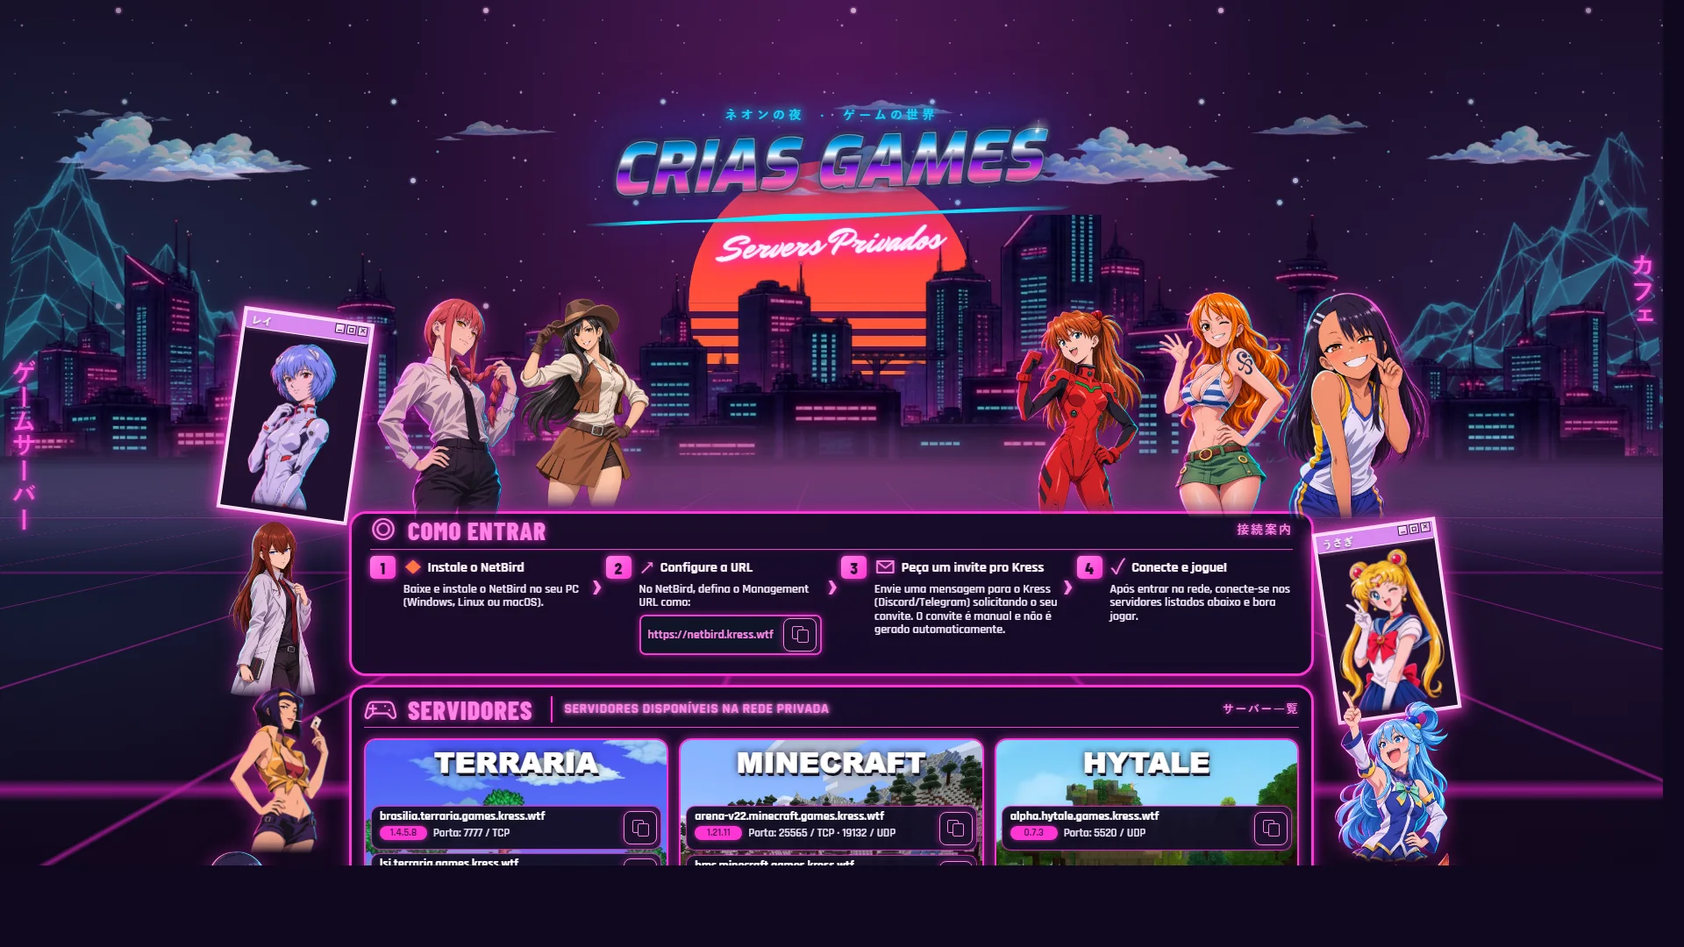
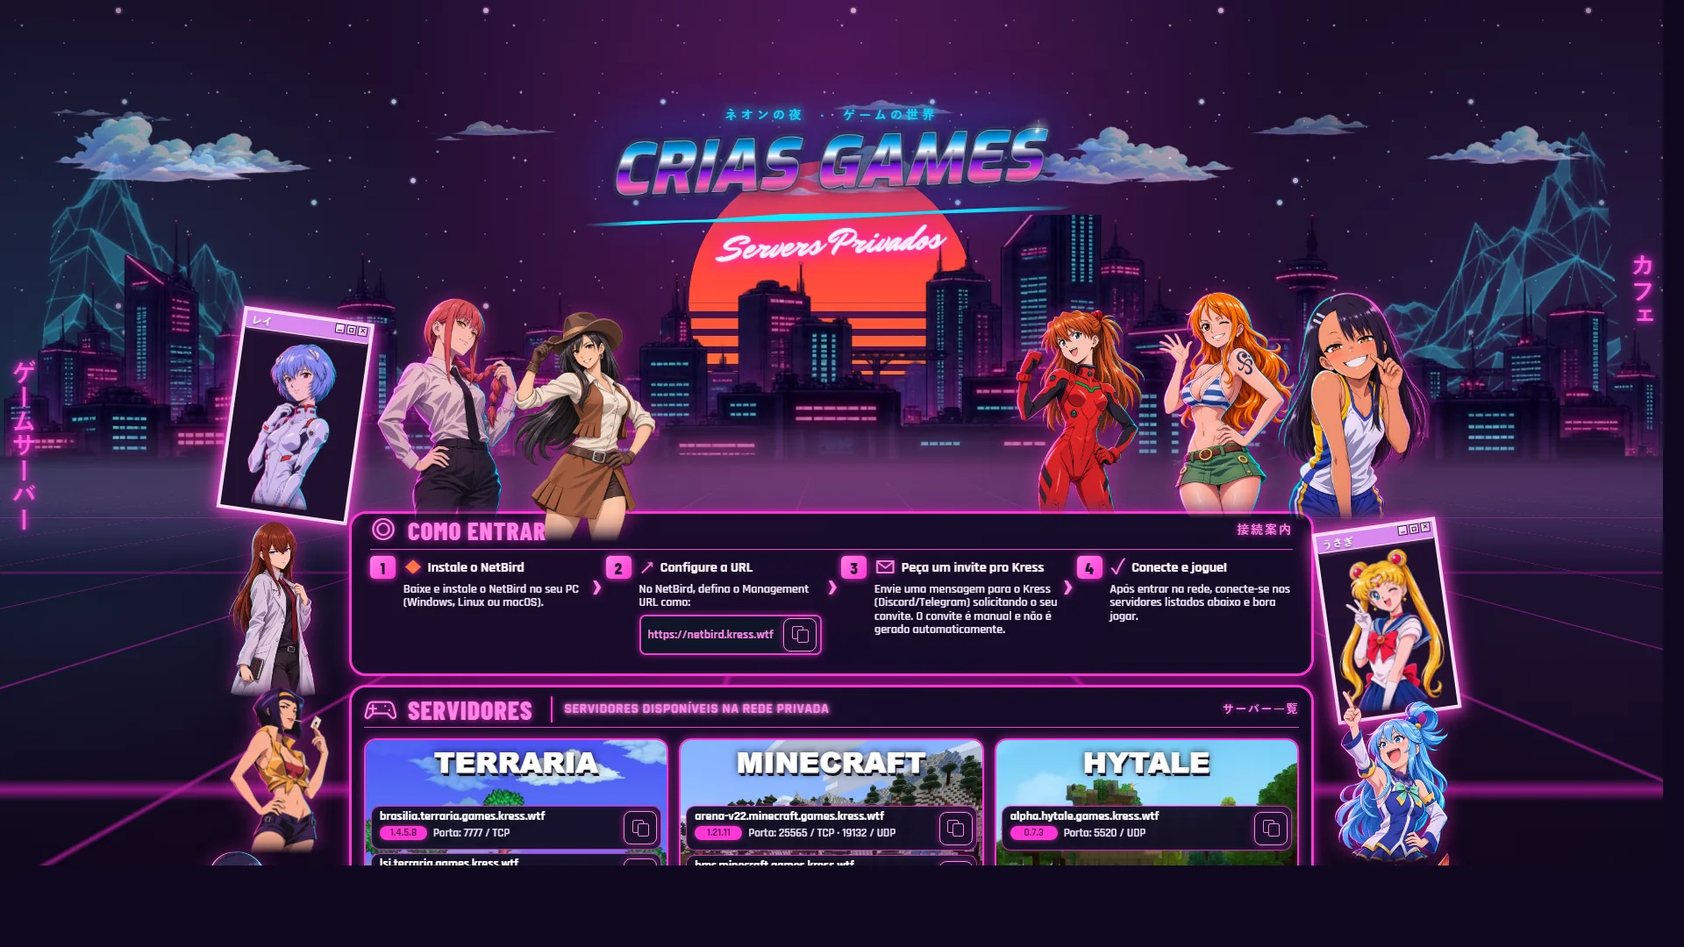
Scale Tifa and keep mountains in frame

diff --git a/src/assets/site.css b/src/assets/site.css
@@ -95,8 +95,8 @@ button { font: inherit; }
 .scene__mountains::before,.scene__mountains::after { content:""; position:absolute; inset:0; pointer-events:none; -webkit-mask-image:url('./art/mountains-valley.png'); mask-image:url('./art/mountains-valley.png'); -webkit-mask-repeat:no-repeat; mask-repeat:no-repeat; -webkit-mask-size:200% 100%; mask-size:200% 100%; -webkit-mask-position:var(--mountain-mask-position) 100%; mask-position:var(--mountain-mask-position) 100%; -webkit-mask-mode:alpha; mask-mode:alpha; }
 .scene__mountains::before { background:linear-gradient(180deg,#267faaa8 0%,#35b9d4e8 54%,#3de2ff 100%); }
 .scene__mountains::after { background:linear-gradient(180deg,#83b6d633 0%,#5da7cb1f 46%,transparent 100%); clip-path:inset(0 0 42%); filter:blur(2px); }
-.scene__mountains--left { --mountain-mask-position:0%; left:calc(0px - clamp(3.2px, 0.25vw, 4px)); rotate:5deg; transform-origin:left bottom; }
-.scene__mountains--right { --mountain-mask-position:100%; right:calc(0px - clamp(3.2px, 0.25vw, 4px)); rotate:-5deg; transform-origin:right bottom; }
+.scene__mountains--left { --mountain-mask-position:0%; left:clamp(32px, 2.5vw, 40px); rotate:5deg; transform-origin:left bottom; }
+.scene__mountains--right { --mountain-mask-position:100%; right:clamp(32px, 2.5vw, 40px); rotate:-5deg; transform-origin:right bottom; }
 .scene__grid { position: absolute; z-index:2; left: -30%; right: -30%; top:var(--scene-horizon); bottom: -14%; transform-origin: 50% 0; transform: perspective(280px) rotateX(80deg); background-image: linear-gradient(#ff22d8a8 1px, transparent 1px), linear-gradient(90deg, #ff22d8a8 1px, transparent 1px); background-size: 100% 50px, 68px 100%; -webkit-mask-image:linear-gradient(to bottom,transparent 0%,#0002 5%,#000e 24%,#000 72%,transparent 100%); mask-image:linear-gradient(to bottom,transparent 0%,#0002 5%,#000e 24%,#000 72%,transparent 100%); box-shadow: inset 0 22px 40px #ff28cd36; animation: grid-drift 14s linear infinite,grid-neon-pulse 3.5s ease-in-out infinite alternate,neon-flicker 11.7s steps(1,end) infinite; }
 .scene__ground-fog { position:absolute; z-index:6; top:calc(var(--scene-horizon) - clamp(48px,5vh,56px)); left:-8%; right:-8%; height:clamp(172px,21vh,228px); pointer-events:none; opacity:.96; background:radial-gradient(ellipse at 50% 8%,rgba(247,153,237,.2),transparent 65%),linear-gradient(to bottom,transparent 0%,rgba(232,151,225,.12) 16%,rgba(186,129,205,.27) 37%,rgba(95,69,133,.31) 60%,rgba(22,13,43,.25) 78%,transparent 100%); filter:blur(11px); }
 .scene__sign { position:absolute; z-index:7; top:calc(clamp(210px,21vh,228px) + 200px); left:5px; color:#ff5cde; font-size:28px; line-height:1.45; font-weight:800; writing-mode:vertical-rl; text-shadow:0 0 6px #ff2ad9,0 0 15px #ff2ad9; animation:sign-flicker 6.2s ease-in-out infinite,neon-text-pulse 2.7s ease-in-out infinite alternate; }
@@ -147,7 +147,7 @@ html.portrait-press-active,html.portrait-press-active * { user-select:none!impor
 .statue--right img { transform:scaleX(-1); }
 .character--rei { left:38px; top:158px; width:150px; height:232px; }
 .character--makima { left:14%; top:133px; width:clamp(205px,15vw,217px); }
-.character--tifa { left:calc(26% - 36px); top:109px; width:200px; }
+.character--tifa { left:calc(26% - 46px); top:121px; width:220px; }
 .character--asuka { right:25%; top:133px; width:clamp(185px,13.75vw,199px); }
 .character--nami { right:13%; top:138px; width:clamp(200px,15vw,217px); }
 .character--nagatoro { right:2.8%; top:133px; width:clamp(205px,15vw,217px); }

diff --git a/docs/assets.md b/docs/assets.md
@@ -10,7 +10,7 @@ The mockup and `docs/mockup-reference.md` guided character traits, palette and c
 | --- | --- | --- | --- |
 | Rei Ayanami | `rei-1.webp` (`rei.webp` retained) | ImageGen `exec-67ca324e`; pale blue bob, red eyes, white full-coverage plugsuit; generated from Rei's reference crop. | Transparent PNG master and WebP, 1024 × 1536; CSS-built tilted window and separate controls. |
 | Makima | `makima-3.webp` (`makima-2.webp`, `makima-1.webp`, `makima.webp` retained) | ImageGen `exec-f5504235`; copper-red braid, gold eyes, shirt and tie, expressive hand-on-hip pose; generated from Makima's reference crop. | Lossless WebP, 1280 × 1920, ImageMagick-padded from `makima-2.png`; independent portrait. |
-| Tifa Lockhart | `tifa-9.webp` (`tifa-8.webp` and all earlier art retained) | ImageGen `exec-a67bd35c`, refined from the cowgirl candidate into a larger hat-tip pose, cropped just above the knees. Nibelheim outfit: hat, ivory blouse, brown vest and skirt, dark shorts and gloves. See [`character-hand-revisions.md`](character-hand-revisions.md). | Transparent PNG master and WebP, 2560 × 3840; generated at 1024 × 1536, enlarged 2× with Lanczos, then given 256px side and 384px top/bottom transparent margins. Rendered to match Asuka's visible scale. |
+| Tifa Lockhart | `tifa-9.webp` (`tifa-8.webp` and all earlier art retained) | ImageGen `exec-a67bd35c`, refined from the cowgirl candidate into a larger hat-tip pose, cropped just above the knees. Nibelheim outfit: hat, ivory blouse, brown vest and skirt, dark shorts and gloves. See [`character-hand-revisions.md`](character-hand-revisions.md). | Transparent PNG master and WebP, 2560 × 3840; generated at 1024 × 1536, enlarged 2× with Lanczos, then given 256px side and 384px top/bottom transparent margins. Now displayed 10% larger and 12px lower. |
 | Asuka Langley | `asuka-4.webp` (`asuka-3.webp`, `asuka-2.webp`, `asuka-1.webp`, `asuka.webp` retained) | Current image `exec-bb38c2b9`; orange hair, blue eyes, red pilot suit and raised fist. Approved by the user; the preceding numbered variant is also retained. | Lossless WebP, 1280 × 1920, ImageMagick-padded from `asuka-3.png`; independent portrait. |
 | Nami | `nami-2.webp` (`nami-1.webp`, `nami.webp` retained) | ImageGen `exec-9eb8bd38`; orange hair, wink, spiral tattoo, blue-white top and lively wave; generated from Nami's reference crop. | Lossless WebP, 1280 × 1920, ImageMagick-padded from `nami-1.png`; independent portrait. |
 | Hayase Nagatoro | `nagatoro-4.webp` (`nagatoro-3.webp`, `nagatoro-2.webp`, `nagatoro-1.webp`, `nagatoro.webp` retained) | ImageGen `exec-2d36d485`; dark hair and clips, warm tan skin, playful grin, sports clothes and corrected raised hand. See [`character-hand-revisions.md`](character-hand-revisions.md). | Lossless WebP, 1280 × 1920, resized from the transparent `nagatoro-4.png` master; independent portrait. |
@@ -33,7 +33,7 @@ The active footer additions are `shantae-6.webp`, `marie-rose-6.webp`, `oguri-ca
 | Skyline | skyline.webp | Generated transparent panorama of neon cyberpunk towers. CSS opacity is 100%, blend mode is normal, and a short lower-edge mask plus low ground fog blends it into the grid. Mountains render below the skyline layer. |
 | Sky and stars | `.scene`, `.scene__stars` in `site.css` | CSS gradients and star patterns; star layer stops and fades at the horizon above the ground grid. |
 | Striped sun | `.scene__sun` in `site.css` | CSS bands separated by transparent cutouts in the lower half with a moving mask, a 25% bottom clip, no neon glow/pulse, and only a brief non-glowing glitch. Desktop lift is about 116px. |
-| Wireframe mountains | `mountains-valley.png` | ImageGen (`exec-b7c597af-6836-420c-b072-76f8d0d1b665`), one transparent panoramic retrowave valley with white irregular triangulated terrain and translucent filled facets. CSS uses its left and right alpha-mask halves at the page corners, so both sides share the exact source, tint and brightness; the tint darkens slightly toward the top with a very light upper haze/blur. The shared top uses `clamp(128px, 13vh, 148px)`; the left half rotates `5deg` and the right `-5deg`, anchored at their lower outer corners with a subtle outward offset. Far clouds sit behind the mountains and faster sprites in front, all behind the city. Inspired by the [Synthwave Mountains CodePen](https://codepen.io/rickpr/pen/xxxyVxZ). |
+| Wireframe mountains | `mountains-valley.png` | ImageGen (`exec-b7c597af-6836-420c-b072-76f8d0d1b665`), one transparent panoramic retrowave valley with white irregular triangulated terrain and translucent filled facets. CSS uses its left and right alpha-mask halves at the page corners, so both sides share the exact source, tint and brightness; the tint darkens slightly toward the top with a very light upper haze/blur. The shared top uses `clamp(128px, 13vh, 148px)`; the left half rotates `5deg` and the right `-5deg`, anchored at their lower outer corners and inset 32–40px to keep the ridges inside the viewport. Far clouds sit behind the mountains and faster sprites in front, all behind the city. Inspired by the [Synthwave Mountains CodePen](https://codepen.io/rickpr/pen/xxxyVxZ). |
 | Grid and ground fog | `.scene__grid`, `.scene__ground-fog` in `site.css` | CSS perspective transform, line gradients and a broad low fog fade that softens the skyline/ground transition; stars fade out before the grid. |
 | Parallax clouds | `clouds-spritesheet.png`; `.scene__clouds` and `.scene__cloud-sprite` in `site.css` | ImageGen `exec-bb058d09`; anime-cumulus artwork was cropped and arranged with ImageMagick into a 4×4 transparent sprite sheet (1024 × 512). A 14px horizontal alpha feather removes hard crop edges at each cell. The cloud container reaches the horizon, with the skyline above sprites where they cross buildings. Fifteen active sprites move left at staggered speeds across far/middle/near depth layers; the broken `near-3` instance was removed. The slow far sprites sit behind the mountains, faster sprites pass in front. Reduced-motion and software-rendered modes keep the clouds static. |
 | Japanese signs | `.scene__sign` and `.scene__sign--right` in `site.css` and HTML text | Standalone vertical neon text (`ゲームサーバー` and `カフェ`) in front of the city; the striped right-side facade panel is omitted. |

diff --git a/openspec/specs/website-experience/spec.md b/openspec/specs/website-experience/spec.md
@@ -23,7 +23,7 @@ The desktop experience SHALL closely reproduce and refine the mockup's continuou
 ### Requirement: Hero and environment
 The hero SHALL center the CRIAS GAMES wordmark, cyan underline and `Servers Privados` cursive subtitle over the striped sunset and skyline without the removed two-line introductory callout. The scene SHALL include open starry sky, clearly visible organic, uneven mountain ridges with layered triangulated neon wireframes confined to the side corners clear of the sun. The mountains SHALL suggest a retrowave valley in perspective, with broad irregular terrain facets receding toward the horizon instead of repeated cones; use the supplied [Synthwave Mountains CodePen](https://codepen.io/rickpr/pen/xxxyVxZ) as a visual reference. Both corner ranges SHALL be clipped from opposite halves of one transparent panoramic white-wireframe PNG and tinted the same cyan by one CSS rule, with subtle fills in some triangulated faces. Text-only Japanese neon signs SHALL layer in front of the city, and the magenta perspective grid SHALL follow the reference; stars SHALL remain above the ground grid. The center sky SHALL retain its original dark purple color while the side edges are brighter enough to distinguish the mountains. Distinct cloud layers SHALL scroll continuously left in seamless loops at different parallax speeds above the sun; the slow far layer SHALL pass behind the mountains while faster middle and near layers SHALL pass in front, and all clouds SHALL end above the skyline so they never cover buildings. The shared skyline/grid horizon SHALL sit higher on the page. The striped sun SHALL be about 1.8 times its previous CSS diameter (roughly 320–326px across 1448–1920px desktop widths), use `clip-path: inset(0px 0px 25%)`, and use colored bands separated by transparent cutouts that reveal the sky only in the lower half. Its desktop lift SHALL be about 116px under the existing horizon calculation. The sun SHALL NOT have a neon glow or neon-pulse animation; a brief non-glowing glitch is allowed. The sun SHALL sit behind and enter the upper skyline slightly. No lagoon or separate water-reflection layer SHALL be rendered. The city SHALL use `opacity: 1` and `mix-blend-mode: normal`; atmospheric filters SHALL be applied as CSS filters and the skyline SHALL remain opaque over the mountain and grid layers except for a short fade at its lower edge. The wireframe mountains SHALL remain below the skyline layer and SHALL NOT show through opaque building pixels. A wide, low fog band SHALL blend the skyline's lower edge into the grid without a hard horizontal cutoff. The page SHALL NOT include the striped right-side facade panel. The grid SHALL continue around the panels and footer.
 
-Both halves of the single mountain PNG SHALL receive the same cyan CSS tint and translucent face fill, preserving continuous visual brightness between the left and right ranges. The tint SHALL be slightly darker at the upper edge, with a very subtle blurred haze over only the upper portion; lower ridges SHALL stay crisp. The shared top offset SHALL use `clamp(128px, 13vh, 148px)`; rotate the left half by 5deg and the right by -5deg, anchor the rotations at the lower outer corners, and use only a subtle outward offset to avoid wide edge crops. The slow far cloud layer SHALL pass behind the mountain layer; the faster middle and near cloud layers SHALL pass in front of the mountains but behind the city. Cloud sprites SHALL drift continuously left while visible, fade out only after clearing the sky viewport, have soft alpha-faded sprite edges, and never pause visibly before looping or be clipped by the sky container.
+Both halves of the single mountain PNG SHALL receive the same cyan CSS tint and translucent face fill, preserving continuous visual brightness between the left and right ranges. The tint SHALL be slightly darker at the upper edge, with a very subtle blurred haze over only the upper portion; lower ridges SHALL stay crisp. The shared top offset SHALL use `clamp(128px, 13vh, 148px)`; rotate the left half by 5deg and the right by -5deg, anchor the rotations at the lower outer corners, and inset each side by `clamp(32px, 2.5vw, 40px)` to keep the ridges within the viewport. The slow far cloud layer SHALL pass behind the mountain layer; the faster middle and near cloud layers SHALL pass in front of the mountains but behind the city. Cloud sprites SHALL drift continuously left while visible, fade out only after clearing the sky viewport, have soft alpha-faded sprite edges, and never pause visibly before looping or be clipped by the sky container.
 
 Clouds SHALL use anime-inspired, voluminous cumulus sprites with pale cyan-blue lit tops and indigo/lavender shadow planes, soft edges and subtle violet bounce light. Each isolated sprite SHALL move independently left across the sky with staggered timing; the sprites SHALL form far, middle and near depth planes that move at distinct parallax speeds. The artwork SHALL remain painterly and stylized without thick outlines or photoreal texture, stay clipped to the sky and never cover the city. Reduced motion and the static graphics fallback SHALL show the sprites without animation. The striped sun SHALL animate its stripes and brief glitch about 1.5 times faster than the previous timing, using a 6-second stripe loop and an 8-second glitch cycle.
 
@@ -156,7 +156,7 @@ The site SHALL show the fourteen reference characters as separate recognizable i
 
 #### Scenario: Inspecting Tifa's replacement
 - **WHEN** the refreshed Tifa illustration is inspected on the desktop page
-- **THEN** she appears in the Nibelheim cowgirl outfit in a hat-tip pose, cropped just above the knees, with transparent padding and a visible scale matched to adjacent art
+- **THEN** she appears in the Nibelheim cowgirl outfit in a hat-tip pose, cropped just above the knees, with transparent padding, about 10% more display size and an 8–16px downward adjustment
 - **AND** the portrait preserves its interactions and previous numbered Tifa artwork remains available
 
 #### Scenario: Inspecting Nagatoro's replacement

diff --git a/docs/review/visual-review.md b/docs/review/visual-review.md
@@ -205,6 +205,6 @@ Captured states: [idle page at 1448](screenshots/layers-idle-1448-2026-11-10.web
 
 The generated anime-cumulus artwork was cropped with ImageMagick into a 1024 × 512, 4 × 4 transparent sprite sheet. A 14px horizontal alpha feather on each cell removes the hard crop line where the source art touched tile edges. The cloud container now reaches the horizon so sprites do not get chopped at the earlier city-height boundary; the higher-z skyline still covers clouds where they cross buildings. The broken `near-3` sprite instance was removed, leaving 15 active clouds drifting left with staggered delays through far, middle and near parallax planes. The far sprites sit behind the mountains; faster sprites pass in front. The loop no longer pauses visibly before fading offscreen. On the software-rendered fallback, the clouds remain static.
 
-Both mountain halves use `top: clamp(128px, 13vh, 148px)`, with the left rotated `5deg` and the right `-5deg`; their lower outer corners anchor the rotation, with a small outward offset to retain the corner placement without the earlier large edge crop. The active Tifa portrait is a transparent hat-to-above-knee cowgirl cutout. Its 2× enlarged image has generous transparent margins; its visible size matches Asuka while leaving space around the cutout for its motion.
+Both mountain halves use `top: clamp(128px, 13vh, 148px)`, with the left rotated `5deg` and the right `-5deg`; their lower outer corners anchor the rotation, with a 32–40px inward offset keeping the outer ridges visible. The active Tifa portrait is a transparent hat-to-above-knee cowgirl cutout. Its 2× enlarged image has generous transparent margins; the updated display is 10% larger and 12px lower while retaining its transparent clearance.
 
 The [1448px upper-page capture](screenshots/tifa-clouds-1448-2026-11-10.webp) and [1920px full-page capture](screenshots/tifa-clouds-1920-2026-11-10.webp) show the above-knee Tifa crop, transparent breathing room, all active cloud layers and rotated mountain placement. The static browser renders include 15 cloud sprites, with the skyline over the clouds where their paths cross buildings. The site builds with all eight server records.

diff --git a/openspec/changes/build-mockup-faithful-site/tasks.md b/openspec/changes/build-mockup-faithful-site/tasks.md
@@ -126,5 +126,6 @@ Implement in dependency order. Read both persistent specs, both change specs, `d
 - [x] 8.49 Replace the active Tifa portrait with a cleaner JRPG-style rendering of the same pose and outfit, correcting both hands; keep transparent padding, remove baked effects, retain old variants, and leave the separate cowboy candidate for review. Inspect the asset and full-page desktop captures.
 - [x] 8.50 Activate a clean transparent cowgirl Tifa cutout based on candidate 2, replacing the active fighter art. Frame the portrait from hat to just above the knees, improve the hat-tip/hand-on-belt pose, enlarge the master 2×, add transparent margins, and size the visible figure to match Asuka. Keep earlier art and inspect the desktop composition.
 - [x] 8.51 Feather the cloud sprite-sheet cell edges and raise near-layer clouds enough to keep the active silhouettes inside the sky container. Inspect all 15 active sprites for horizontal or vertical clipping at 1448px and 1920px.
-- [x] 8.52 Anchor the mountain rotations at the lower outer corners and use only a `clamp(3.2px, .25vw, 4px)` outward offset, preventing the previous wide crop while keeping the ranges in the side corners. Keep the approved `clamp(128px, 13vh, 148px)` top and inspect the valley at desktop widths.
+- [x] 8.52 Anchor the mountain rotations at the lower outer corners and inset both halves by `clamp(32px, 2.5vw, 40px)` to keep the outer ridges visible inside the viewport. Keep the approved `clamp(128px, 13vh, 148px)` top and inspect the valley at desktop widths.
+- [x] 8.54 Increase Tifa's displayed size about 10%, lower her 8–16px, and preserve the centered artwork bounds and transparent margin. Inspect against Asuka at 1448px and 1920px.
 - [x] 8.53 Extend the cloud container down to the horizon so sprites do not clip at the former city-height boundary; keep the skyline above every cloud layer and verify the animated and static desktop views.

diff --git a/docs/character-hand-revisions.md b/docs/character-hand-revisions.md
@@ -6,7 +6,7 @@ All revisions use the built-in `image_gen` tool. The preceding numbered artwork 
 
 `tifa-8.webp` was the previous active image: a lossless 1280 × 1920 transparent canvas that preserves the fighter pose, outfit and framing, simplifies the shading into broader JRPG color planes, and redraws both hands. `tifa-7.webp` and all earlier artwork remain available. The first attempts, `tifa-4.png` (`exec-b8866872`) and `tifa-5.png` (`exec-de75476a`), lacked a clear thumb; `tifa-6.png` (`exec-65cab16a`) added it, and `tifa-7.png` (`exec-0d3187a8`) refined the linework and color. The CSS fade, glow and pointer reactions remain separate.
 
-The active `tifa-9.webp` is a transparent hat-to-above-knee cutout generated from the cowgirl version (`exec-a67bd35c`). The relaxed hat-tip and hand-on-belt pose keeps the Nibelheim hat, ivory blouse, brown vest and skirt visible. Its 1024 × 1536 source was enlarged 2× with Lanczos, then padded to 2560 × 3840 with transparent margins. The page renders the artwork at the same visible scale as Asuka; its pointer motion, glow and lower fade remain CSS effects. The original fighter and full-body cowgirl variants remain in the asset archive.
+The active `tifa-9.webp` is a transparent hat-to-above-knee cutout generated from the cowgirl version (`exec-a67bd35c`). The relaxed hat-tip and hand-on-belt pose keeps the Nibelheim hat, ivory blouse, brown vest and skirt visible. Its 1024 × 1536 source was enlarged 2× with Lanczos, then padded to 2560 × 3840 with transparent margins. The page displays it 10% larger and 12px lower; pointer motion, glow and lower fade remain CSS effects. The original fighter and full-body cowgirl variants remain in the asset archive.
 
 The targeted hand edit used `tifa-5.png`, a temporary close-up of its hand, and the user-supplied reference. Its prompt was:
 

diff --git a/openspec/changes/build-mockup-faithful-site/design.md b/openspec/changes/build-mockup-faithful-site/design.md
@@ -157,11 +157,11 @@ Run the two staggered desktop shooting-star sequences on 21-second and 27-second
 
 ### 20. Conceal the mountain mask crop
 
-Keep the shared mountain layer at `top: clamp(128px, 13vh, 148px)` and rotate the left half by `5deg` and the right half by `-5deg`. Anchor each rotation at its lower outer corner and use a small outward offset so the ridges stay in the side corners without a wide crop at the viewport edges. Preserve the mountain-behind-city stacking order.
+Keep the shared mountain layer at `top: clamp(128px, 13vh, 148px)` and rotate the left half by `5deg` and the right half by `-5deg`. Anchor each rotation at its lower outer corner and inset both halves by `clamp(32px, 2.5vw, 40px)` so the outer ridges remain visible inside the viewport. Preserve the mountain-behind-city stacking order.
 
 ### 21. Refresh the active Tifa portrait
 
-Use `tifa-9.webp` as the active transparent cowgirl portrait. Frame Tifa from the Nibelheim hat to just above the knees in a relaxed hat-tip pose, with the blouse, vest, skirt and hand at her belt visible. Deliver a 2× enlarged, high-resolution master with generous transparent padding; size its visible figure to match Asuka and preserve the portrait motion and lower fade. Keep the former fighter and full-body cowgirl candidates available.
+Use `tifa-9.webp` as the active transparent cowgirl portrait. Frame Tifa from the Nibelheim hat to just above the knees in a relaxed hat-tip pose, with the blouse, vest, skirt and hand at her belt visible. Deliver a 2× enlarged, high-resolution master with generous transparent padding; increase its displayed size by about 10% and lower it 8–16px while preserving the portrait motion and lower fade. Keep the former fighter and full-body cowgirl candidates available.
 
 ### 19. Mouse focus and keyboard focus
 
